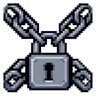
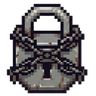
스피커·자물쇠 아이콘을 새로 뽑아 오려내기 방식으로 교체(메우기 흔적 없음)

diff --git a/index.html b/index.html
@@ -5,7 +5,7 @@
 <meta name="viewport" content="width=device-width, initial-scale=1, viewport-fit=cover, user-scalable=no">
 <meta name="theme-color" content="#2b2117">
 <title>샤들링: 몬스터 퓨전 RPG (시제품)</title>
-<link rel="stylesheet" href="css/style.css?v=1107v">
+<link rel="stylesheet" href="css/style.css?v=1107w">
 </head>
 <body>
 <div id="app">
@@ -28,10 +28,10 @@
   <div id="overlay" hidden></div>
   <div id="toast" hidden></div>
 </div>
-<script src="js/balance.js?v=1107v"></script>
-<script src="js/data.js?v=1107v"></script>
-<script src="js/logic.js?v=1107v"></script>
-<script src="js/sound.js?v=1107v"></script>
-<script src="js/ui.js?v=1107v"></script>
+<script src="js/balance.js?v=1107w"></script>
+<script src="js/data.js?v=1107w"></script>
+<script src="js/logic.js?v=1107w"></script>
+<script src="js/sound.js?v=1107w"></script>
+<script src="js/ui.js?v=1107w"></script>
 </body>
 </html>
